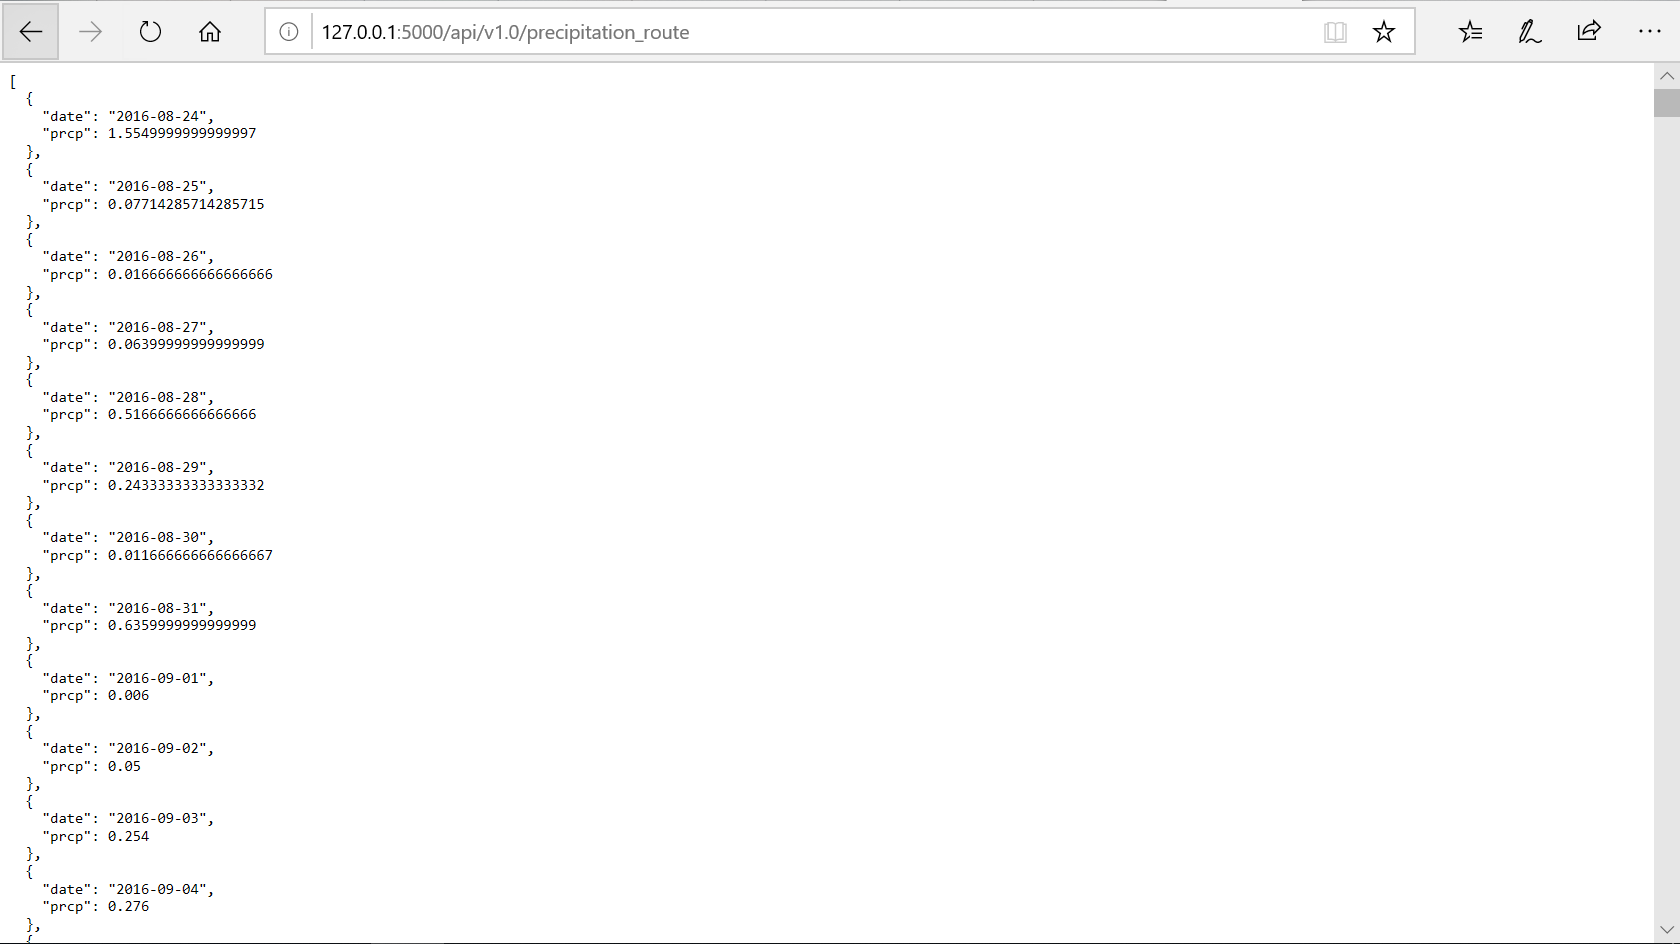
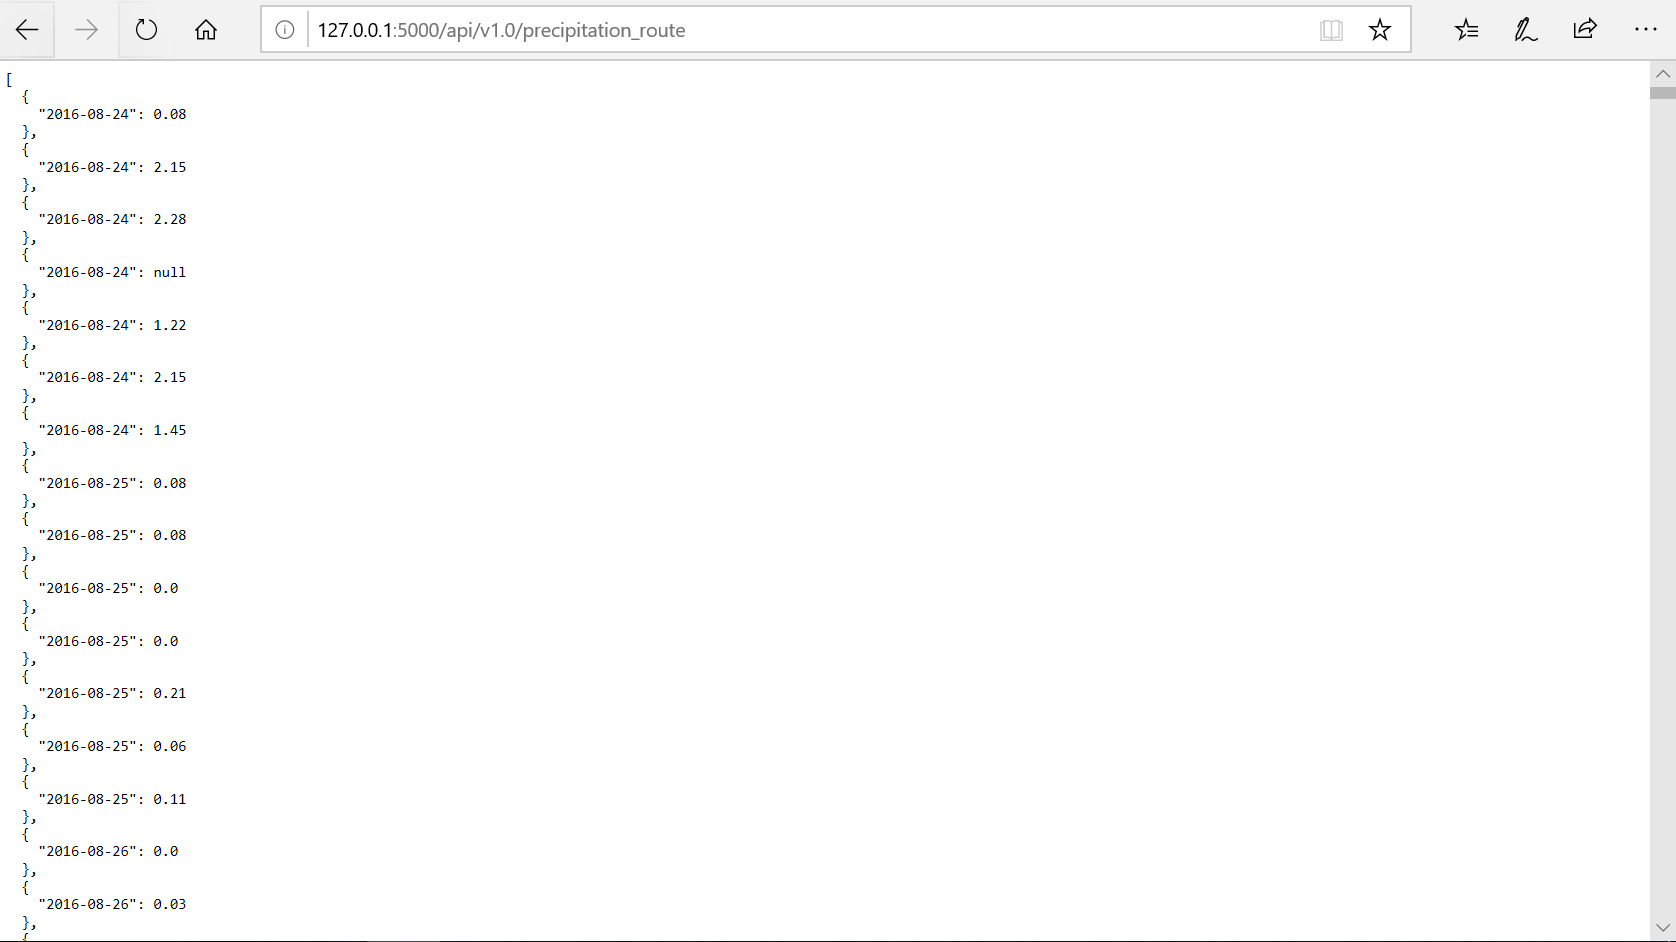
upload

diff --git a/app.py b/app.py
@@ -76,10 +76,9 @@ def measurements():
     begindate = dt.datetime(2016, 8, 23)
 
     # Perform a query to retrieve the data and precipitation scores
-    results = session.query(Measurement.date, func.Avg(Measurement.prcp)).\
-    filter(Measurement.date >= begindate).\
-    group_by(Measurement.date).\
-    order_by(Measurement.date).all()
+    results = session.query(Measurement.date, Measurement.prcp).\
+        filter(Measurement.date >= begindate).\
+        order_by(Measurement.date).all()
 
     session.close()
 
@@ -87,8 +86,8 @@ def measurements():
     all_measurements = []
     for date, prcp in results:
         measurements_dict = {}
-        measurements_dict["date"] = date
-        measurements_dict["prcp"] = prcp
+        measurements_dict[date] = prcp
+        #measurements_dict["prcp"] = prcp
         all_measurements.append(measurements_dict)
 
     return jsonify(all_measurements)
@@ -162,7 +161,7 @@ def start_end():
     s_date = dt.datetime.strptime(start_date, "%Y-%m-%d").date()
     e_date = dt.datetime.strptime(end_date, "%Y-%m-%d").date()
     results = session.query(func.Min(Measurement.tobs), func.Max(Measurement.tobs), func.Avg(Measurement.tobs)).\
-                         filter(Measurement.date<e_date).\
+                         filter(Measurement.date<=e_date).\
                         filter(Measurement.date>=s_date).all()
     
     session.close()
